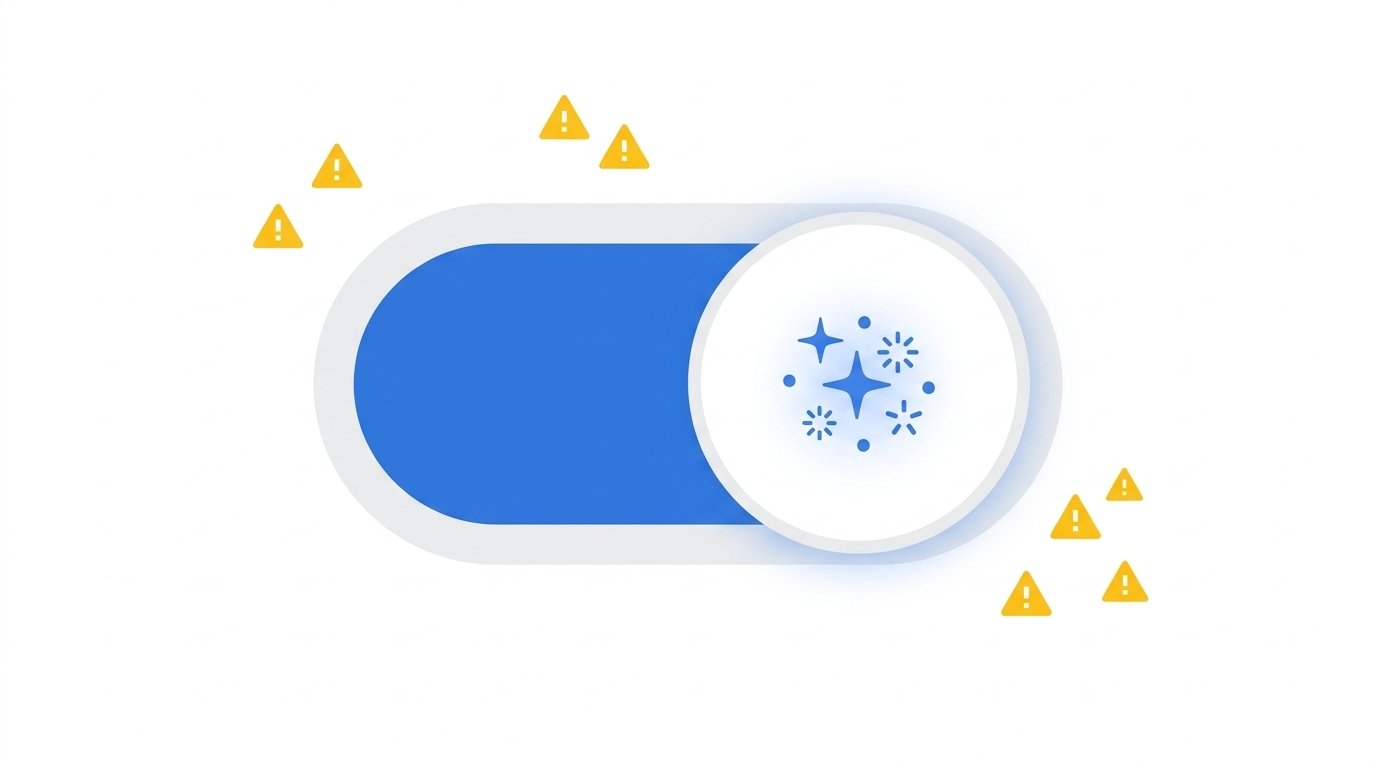
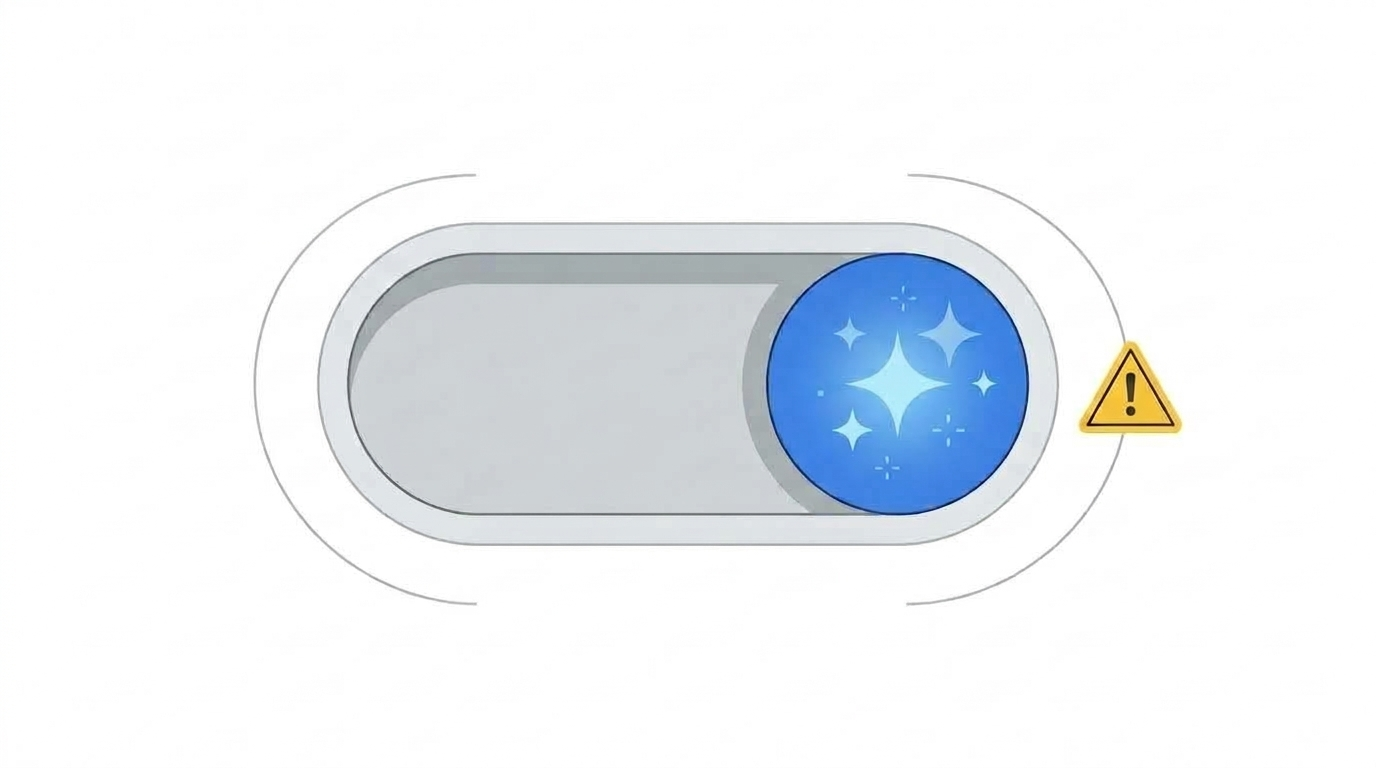
update

diff --git a/src/blog/google-tag-manager-biggest-update-2026.md b/src/blog/google-tag-manager-biggest-update-2026.md
@@ -71,7 +71,7 @@ tags:
   - gtm-updates
 ---
 
-*Updated July 8, {{ currentYear }}: Google has officially begun rolling out the new user interface changes to prepare for the Google Tag integration. If you are struggling to find your workspaces after the latest update, check out our new guide on **[Where to Find the Missing Workspace Switcher in the New GTM UI](/blog/new-gtm-ui-changes/)**.*
+*Updated September 16, {{ currentYear }}: Google is now auto-generating [AI version summaries](/blog/gtm-ai-version-summaries/) when you publish a container, an auto opt-in with no admin kill switch.*
 
 Google Tag Manager is receiving its most significant update in years. First revealed to partners ahead of the official Google Marketing Live keynote on May 20, {{ currentYear }}, GTM containers are effectively becoming Google Tags. This merges two product lines that have always been closely related under the hood.
 
@@ -186,6 +186,10 @@ If you want to see exactly how this builder works in practice, Julius Fedorovici
 </div>
 
 **A warning on Visual Tagging:** While the slick interface lowers the barrier to entry, relying on CSS selectors for revenue-critical conversions is dangerous. As both Ahava and Fedorovicius note in their reviews, dynamic receipt pages and changing CSS layouts will inevitably break these setups. For critical data like purchases, we strongly recommend working with developers to push data to the dataLayer rather than scraping the page visually.
+
+### AI-Generated Version Summaries
+
+The visual builder is one piece of a broader AI push into GTM. Google has since added AI-generated version summaries to the publish flow: submit workspace changes and an AI model writes the version name and description for you. Useful for teams that leave version logs blank, but it ships as an auto opt-in with no account-level kill switch, which matters for enterprises feeding container logic into Google's models. We cover the tradeoffs in [GTM's AI version summaries and the enterprise privacy risk](/blog/gtm-ai-version-summaries/).
 
 ---
 

diff --git a/src/blog/new-gtm-ui-changes.md b/src/blog/new-gtm-ui-changes.md
@@ -120,6 +120,8 @@ While codeless tagging sounds great in theory, the current implementation is hea
 
 You cannot use it to track standard Google Analytics 4 interactions like button clicks, form submissions, or custom lead events. This limitation makes the feature irrelevant for the vast majority of day-to-day GTM configurations. For now, continuing to use standard triggers and the dataLayer remains the most reliable way to build your tracking setup.
 
+The visual builder is not the only AI landing in Tag Manager either. Google has since started auto-generating [version summaries](/blog/gtm-ai-version-summaries/) at publish time, which is useful for solo marketers but a privacy concern for enterprise teams given it is an auto opt-in.
+
 ### Video Walkthrough of the New Interface
 
 For a deeper dive into the new interface changes, Julius Fedorovicius from Analytics Mania recently published an excellent video walkthrough. While he did not highlight the missing workspace switcher issue in his video (likely because he already had multiple workspaces active), the video provides a comprehensive look at how the visual builder and the rest of the new layout function:

diff --git a/src/blog/ga4-custom-dashboards.md b/src/blog/ga4-custom-dashboards.md
@@ -182,7 +182,7 @@ If you plan to move stakeholder reporting onto these native dashboards, you need
 
 This is exactly why we built the free [GA4 Optimizer Chrome extension](https://chromewebstore.google.com/detail/ga4-optimizer/hlldjkhoepkephgaeifgbelgchncfnjj?utm_source=gaoptimizer.com&utm_medium=website&utm_campaign=blog_ga4_custom_dashboards). It sits on top of your GA4 property and fixes workflow gaps across the interface. Here is what is live now and what is coming for the new dashboard builder:
 
-**Coming soon for native dashboards:**
+**Newly released fixes from us for the Dasboards:**
 
 *   **% of Total in Dashboard Tables:** The new table cards do not show what percentage of the total each row represents, which makes it hard to judge contribution at a glance. If the table includes a total, our update will inject a "% of Total" column.
 *   **Date Presets Inside the Dashboard:** Our 1-click date presets will appear right next to the native date picker in the dashboard tool. Switch between Last 7 Days, Last 30 Days, MTD, or QTD without the multi-step modal.
